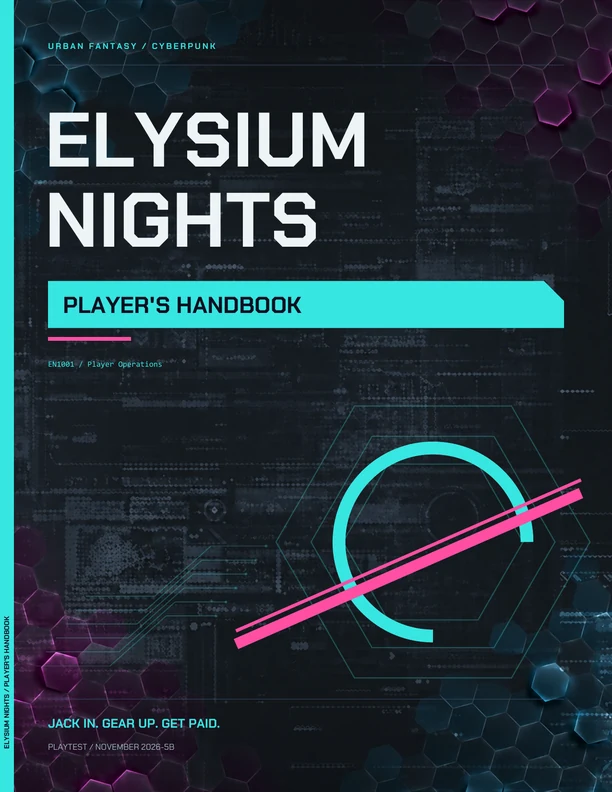
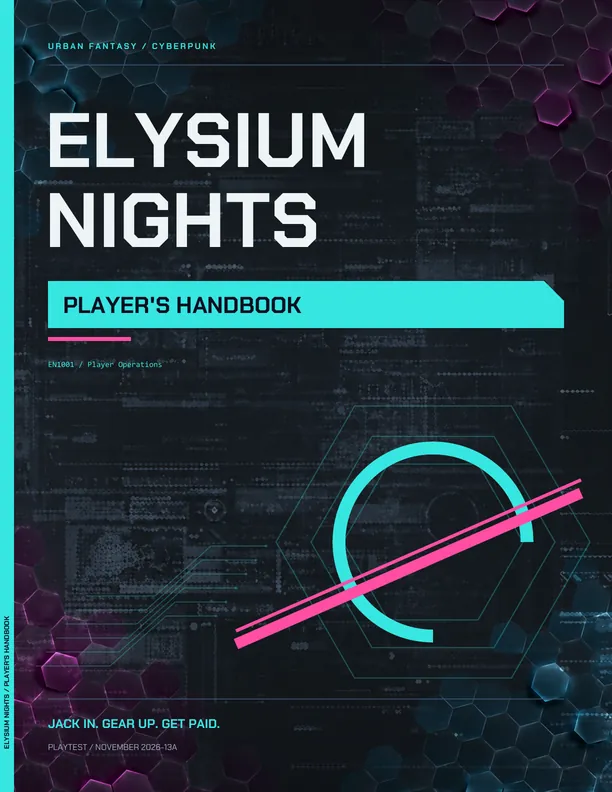
Add the Quick-Start Rules and bring the backup lines to 13A and 13B
EN1003 Quick-Start Rules gets a download card next to the Handbook and
Toolkit, linked to its Drive file. The books row goes three across,
download links line up at the bottom, and the Quick-Start shows under
both filters. Backup covers and typed lines now match the current
editions: Handbook 13A, Toolkit 13A, Quick-Start 13B.

Claude-Session: https://claude.ai/code/session_014RCJysVU5nFx92hELRMbx6

diff --git a/styles.css b/styles.css
@@ -1,5 +1,5 @@
 @font-face{font-family:Chakra;src:url('assets/ChakraPetch-Regular.ttf') format('truetype');font-weight:400;font-display:swap}@font-face{font-family:Chakra;src:url('assets/ChakraPetch-Bold.ttf') format('truetype');font-weight:700;font-display:swap}
-:root{--bg:#0b1115;--panel:#111b21;--text:#f0f2ee;--muted:#aab9bf;--cyan:#37e6e1;--pink:#ff4ea3;--lavender:#b49be9;--line:#29373e;--accent:var(--cyan)}*{box-sizing:border-box}html{scroll-behavior:smooth;scroll-padding-top:88px}body{margin:0;background:var(--bg);color:var(--text);font-family:Arial,Helvetica,sans-serif;font-size:16px;line-height:1.65}button,a{-webkit-tap-highlight-color:transparent}button{font:inherit}a{color:inherit;text-decoration:none}button,a,summary{touch-action:manipulation}a:focus-visible,button:focus-visible,summary:focus-visible,[tabindex]:focus-visible{outline:2px solid var(--cyan);outline-offset:6px}a,button{transition:color .2s,background .2s,border-color .2s,transform .2s}img{display:block;max-width:100%}h1,h2,h3,p{margin:0}h1,h2,h3,.brand,.button,.nav-cta{font-family:Chakra,Arial,sans-serif}h2{font-size:clamp(34px,4vw,56px);line-height:1.1;letter-spacing:-1.7px}h3{font-size:25px;line-height:1.2}em{font-style:normal;color:var(--cyan)}p{color:var(--muted)}.wrap{width:min(1240px,88%);margin-inline:auto}.section{padding-block:102px}.mono,.eyebrow,.section-label,.hero-foot,.book-meta,.footer>p,.footer>a:last-child,.table-kit,.download-filters,.class-number{font-family:Consolas,'Courier New',monospace;font-size:11px;letter-spacing:1.8px;line-height:1.5}.cyan{color:var(--cyan)}.pink{color:var(--pink)}.lavender{color:var(--lavender)}.skip{position:fixed;left:20px;top:-100px;background:var(--cyan);color:var(--bg);padding:12px;z-index:100}.skip:focus{top:12px}.header{height:86px;display:flex;align-items:center;justify-content:space-between;padding-inline:6%;border-bottom:1px solid #ffffff1a;background:#0b1115f5;position:sticky;top:0;z-index:20}.brand{display:flex;align-items:center;gap:12px;font-size:20px;letter-spacing:1.5px;white-space:nowrap;font-weight:700}.brand b{color:var(--cyan)}.header nav{display:flex;align-items:center;gap:30px;font-size:13px}.header nav>a:hover{color:var(--cyan)}.header .nav-cta{border:1px solid var(--cyan);padding:11px 18px;color:var(--cyan);font-size:14px}.nav-cta span{margin-left:20px}.menu-toggle{display:none}.hero{position:relative;width:100%;max-width:1440px;min-height:760px;margin-inline:auto;overflow:hidden;display:flex;align-items:center}.hero-image{position:absolute;inset:0;background:linear-gradient(90deg,#0b111570 0%,#0b111510 42%,#0b111500 62%),linear-gradient(0deg,#0b1115 0%,transparent 28%),url('assets/city-scape-animated.gif') center/cover no-repeat}.hero-content{position:relative;padding-top:36px;padding-bottom:76px}.hero-panel{width:min(590px,100%);padding:30px 32px 34px;background:rgba(5,10,16,.25);-webkit-backdrop-filter:blur(2px);backdrop-filter:blur(2px);border:1px solid rgba(136,187,199,.24);box-shadow:0 12px 40px #00000024}.hero-panel p{color:#d4dde1}.eyebrow{font-size:10px;letter-spacing:2px}.status-dot{display:inline-block;width:6px;height:6px;border-radius:50%;background:var(--cyan);margin-right:8px;box-shadow:0 0 12px #37e6e144}.hero h1{font-size:clamp(68px,8.2vw,116px);line-height:.88;letter-spacing:-4px;margin:34px 0 25px;font-weight:700}.hero h1>span:first-child{color:var(--cyan)}.hero .title-dot{color:var(--pink)}.hero h2{font-size:30px;letter-spacing:-.6px;line-height:1.2}.hero p{font-size:15px;color:#c1cbd0;margin-top:20px}.actions{display:flex;align-items:center;gap:30px;margin-top:30px;flex-wrap:wrap}.button{display:inline-flex;align-items:center;justify-content:space-between;gap:38px;padding:15px 24px;font-size:15px;font-weight:700;min-height:54px}.primary{background:var(--cyan);color:#081516;clip-path:polygon(0 0,100% 0,100% calc(100% - 10px),calc(100% - 10px) 100%,0 100%)}.primary:hover{background:#a0ffef;transform:translateY(-2px)}.secondary{border:1px solid #627077;color:var(--text)}.secondary:hover{border-color:var(--cyan);color:var(--cyan)}.text-link{font-size:13px;border-bottom:1px solid #6b7a80;padding-bottom:5px;display:inline-flex;gap:24px;align-items:center}.text-link:hover{color:var(--cyan);border-color:var(--cyan)}.hero-foot{position:absolute;bottom:22px;left:50%;transform:translateX(-50%);display:flex;justify-content:space-between;gap:20px;color:#a1b3bb;font-size:9px;letter-spacing:1.4px}.hero-foot span:nth-child(2){color:var(--cyan)}.ticker{display:flex;justify-content:center;gap:45px;align-items:center;border-block:1px solid var(--line);background:#101b20;padding:18px 20px;font-family:Chakra,Arial,sans-serif;font-weight:700;font-size:12px;letter-spacing:1.7px;color:#bac9cf}.ticker i{font-style:normal;color:var(--pink);font-size:20px;line-height:1}.section-label{display:flex;justify-content:space-between;color:#81979f;font-size:10px;border-bottom:1px solid var(--line);padding-bottom:19px;margin-bottom:44px}.section-label>span:first-child{color:var(--cyan)}.intro-grid{display:grid;grid-template-columns:1.1fr 1fr;gap:100px}.lead{font-size:20px;line-height:1.6;color:#e0e7e9}.intro-copy p+p{margin-top:19px;font-size:15px}.world-grid{display:grid;grid-template-columns:repeat(3,1fr);margin-top:58px;border:1px solid var(--line)}.world-grid article{position:relative;padding:30px 30px 34px;overflow:hidden;min-height:265px}.world-grid article+article{border-left:1px solid var(--line)}.world-grid h3{font-size:23px;margin:20px 0 15px}.world-grid p{font-size:14px;position:relative;z-index:1;max-width:330px}.world-word{position:absolute;right:10px;bottom:-55px;font-family:Chakra,sans-serif;font-size:180px;color:#9bd3e706;line-height:1}.freelancer-section{background:#0e181e;border-block:1px solid var(--line)}.section-heading{display:flex;justify-content:space-between;gap:40px;align-items:flex-end;margin-bottom:40px}.section-heading>p{font-size:14px;max-width:400px}.class-explorer{display:grid;grid-template-columns:290px 1fr;border:1px solid var(--line);background:#0b1318}.class-list{border-right:1px solid var(--line)}.class-tab{display:flex;align-items:center;width:100%;gap:20px;min-height:66px;padding:12px 22px;background:transparent;color:#b4c3c9;border:0;border-bottom:1px solid var(--line);text-align:left;cursor:pointer;font-family:Chakra,sans-serif;font-size:18px}.class-tab:last-child{border-bottom:0}.class-tab img{width:32px;height:32px}.class-tab span:last-child{margin-left:auto;font-size:16px;opacity:.45}.class-tab:hover{background:#16272c;color:#fff}.class-tab[aria-selected=true]{background:#37e6e10d;color:var(--cyan);box-shadow:inset 3px 0 var(--cyan)}.class-panel{padding:40px 45px;position:relative;display:flex;flex-direction:column;justify-content:center;min-height:465px;overflow:hidden}.class-panel .class-art{position:absolute;width:260px;height:260px;right:28px;top:50%;transform:translateY(-50%);opacity:.11;pointer-events:none}.class-panel .class-number{color:#748c96;margin-bottom:15px}.class-panel h3{font-size:49px;letter-spacing:-1px;color:var(--accent);position:relative}.class-tagline{font-family:Chakra,sans-serif;color:var(--text);font-size:22px;margin:8px 0 18px;position:relative}.class-description{max-width:550px;font-size:15px;position:relative}.class-stats{display:flex;gap:44px;margin:27px 0;position:relative}.class-stats dt{font-family:Consolas,monospace;font-size:9px;letter-spacing:1.5px;color:#81979f}.class-stats dd{margin:4px 0 0;font-family:Chakra,sans-serif;font-size:17px}.class-panel .text-link{align-self:flex-start;color:var(--accent);position:relative}.species{display:flex;justify-content:space-between;align-items:center;gap:20px;padding-top:35px}.species>span:first-child{color:var(--cyan);font-size:9px}.species p{font-family:Chakra,sans-serif;color:#d8e2e5;font-size:15px}.species b{color:var(--pink);padding-inline:9px}.species>span:last-child{font-size:11px;color:#81979f}.game-grid{display:grid;grid-template-columns:1fr 1fr;gap:100px}.game-grid .lead{font-size:17px;margin:25px 0}.game-steps article{display:flex;gap:24px;padding:25px 0;border-top:1px solid var(--line)}.game-steps article:first-child{padding-top:0;border:0}.game-steps article>span{font-family:Consolas,monospace;color:var(--pink);font-size:13px}.game-steps h3{font-size:23px;margin-bottom:10px}.game-steps p{font-size:14px}.table-kit{margin-top:48px;padding:24px 0;border-block:1px solid var(--line);display:flex;gap:25px;justify-content:space-between;letter-spacing:0;font-size:11px;color:#b6c5cc}.table-kit>span:first-child{letter-spacing:1px}.downloads-section{background:#101b21;border-block:1px solid var(--line)}.section-heading .eyebrow{display:block;margin-bottom:16px}.small{display:block;font-size:11px;color:#8ca0a9;margin-top:10px}.download-filters{display:flex;gap:8px;margin-bottom:30px;letter-spacing:0}.download-filters button{background:transparent;border:1px solid #43545d;color:#bccbd2;padding:9px 17px;cursor:pointer;font-family:inherit;font-size:11px}.download-filters button[aria-pressed=true]{background:var(--cyan);border-color:var(--cyan);color:#081516}.books{display:grid;grid-template-columns:repeat(2,minmax(0,1fr));gap:38px;max-width:940px;margin-inline:auto}.book[hidden]{display:none}.cover{display:block;position:relative;background:#11171d;overflow:hidden;border:1px solid #3b4854}.cover img{width:100%;height:auto;transition:transform .35s}.cover:hover img{transform:scale(1.025)}.cover>span{position:absolute;bottom:0;right:0;padding:10px 15px;background:var(--cyan);color:#0b1115;font-family:Consolas,monospace;letter-spacing:1px;font-size:10px}.book:nth-child(2) .cover>span{background:var(--lavender)}.book-meta{display:flex;justify-content:space-between;font-size:9px;color:#8ca0a9;margin:22px 0 12px;letter-spacing:1px}.book h3{font-size:25px}.book p{font-size:14px;margin:14px 0 22px;min-height:70px}.download-link{display:flex;align-items:center;justify-content:space-between;color:var(--cyan);font-family:Chakra,sans-serif;font-weight:700;border-block:1px solid #354a54;padding:14px 0}.download-link:hover{color:white;border-color:var(--cyan)}.book small{display:block;color:#8fa3ad;margin-top:12px;font-size:10px}.faq-section{display:grid;grid-template-columns:.9fr 1.3fr;gap:80px}.faq-section .section-label{border:0;margin-bottom:20px;padding:0;color:var(--cyan)}.faqs details{border-top:1px solid var(--line);padding:22px 0}.faqs details:last-child{border-bottom:1px solid var(--line)}.faqs summary{list-style:none;display:flex;justify-content:space-between;gap:20px;font-family:Chakra,sans-serif;font-size:19px;cursor:pointer}.faqs summary::-webkit-details-marker{display:none}.faqs summary span{color:var(--cyan)}.faqs details[open] summary span{transform:rotate(45deg)}.faqs p{font-size:14px;margin-top:17px}.community{position:relative;border-block:1px solid var(--line);background:radial-gradient(ellipse at 50% 100%,#173c40 0%,#0e1a20 65%);overflow:hidden;text-align:center}.community-inner{padding-block:70px 80px;position:relative}.community img{margin:0 auto 24px}.community .eyebrow{color:var(--cyan)}.community h2{margin-top:20px;font-size:60px}.community p{margin:23px 0}.community .actions{justify-content:center}.footer{display:flex;justify-content:space-between;align-items:center;gap:25px;padding-block:32px}.footer .brand{font-size:15px}.footer>p,.footer>a:last-child{font-size:9px;letter-spacing:1px;color:#81979f}.footer>a:last-child:hover{color:var(--cyan)}
+:root{--bg:#0b1115;--panel:#111b21;--text:#f0f2ee;--muted:#aab9bf;--cyan:#37e6e1;--pink:#ff4ea3;--lavender:#b49be9;--line:#29373e;--accent:var(--cyan)}*{box-sizing:border-box}html{scroll-behavior:smooth;scroll-padding-top:88px}body{margin:0;background:var(--bg);color:var(--text);font-family:Arial,Helvetica,sans-serif;font-size:16px;line-height:1.65}button,a{-webkit-tap-highlight-color:transparent}button{font:inherit}a{color:inherit;text-decoration:none}button,a,summary{touch-action:manipulation}a:focus-visible,button:focus-visible,summary:focus-visible,[tabindex]:focus-visible{outline:2px solid var(--cyan);outline-offset:6px}a,button{transition:color .2s,background .2s,border-color .2s,transform .2s}img{display:block;max-width:100%}h1,h2,h3,p{margin:0}h1,h2,h3,.brand,.button,.nav-cta{font-family:Chakra,Arial,sans-serif}h2{font-size:clamp(34px,4vw,56px);line-height:1.1;letter-spacing:-1.7px}h3{font-size:25px;line-height:1.2}em{font-style:normal;color:var(--cyan)}p{color:var(--muted)}.wrap{width:min(1240px,88%);margin-inline:auto}.section{padding-block:102px}.mono,.eyebrow,.section-label,.hero-foot,.book-meta,.footer>p,.footer>a:last-child,.table-kit,.download-filters,.class-number{font-family:Consolas,'Courier New',monospace;font-size:11px;letter-spacing:1.8px;line-height:1.5}.cyan{color:var(--cyan)}.pink{color:var(--pink)}.lavender{color:var(--lavender)}.skip{position:fixed;left:20px;top:-100px;background:var(--cyan);color:var(--bg);padding:12px;z-index:100}.skip:focus{top:12px}.header{height:86px;display:flex;align-items:center;justify-content:space-between;padding-inline:6%;border-bottom:1px solid #ffffff1a;background:#0b1115f5;position:sticky;top:0;z-index:20}.brand{display:flex;align-items:center;gap:12px;font-size:20px;letter-spacing:1.5px;white-space:nowrap;font-weight:700}.brand b{color:var(--cyan)}.header nav{display:flex;align-items:center;gap:30px;font-size:13px}.header nav>a:hover{color:var(--cyan)}.header .nav-cta{border:1px solid var(--cyan);padding:11px 18px;color:var(--cyan);font-size:14px}.nav-cta span{margin-left:20px}.menu-toggle{display:none}.hero{position:relative;width:100%;max-width:1440px;min-height:760px;margin-inline:auto;overflow:hidden;display:flex;align-items:center}.hero-image{position:absolute;inset:0;background:linear-gradient(90deg,#0b111570 0%,#0b111510 42%,#0b111500 62%),linear-gradient(0deg,#0b1115 0%,transparent 28%),url('assets/city-scape-animated.gif') center/cover no-repeat}.hero-content{position:relative;padding-top:36px;padding-bottom:76px}.hero-panel{width:min(590px,100%);padding:30px 32px 34px;background:rgba(5,10,16,.25);-webkit-backdrop-filter:blur(2px);backdrop-filter:blur(2px);border:1px solid rgba(136,187,199,.24);box-shadow:0 12px 40px #00000024}.hero-panel p{color:#d4dde1}.eyebrow{font-size:10px;letter-spacing:2px}.status-dot{display:inline-block;width:6px;height:6px;border-radius:50%;background:var(--cyan);margin-right:8px;box-shadow:0 0 12px #37e6e144}.hero h1{font-size:clamp(68px,8.2vw,116px);line-height:.88;letter-spacing:-4px;margin:34px 0 25px;font-weight:700}.hero h1>span:first-child{color:var(--cyan)}.hero .title-dot{color:var(--pink)}.hero h2{font-size:30px;letter-spacing:-.6px;line-height:1.2}.hero p{font-size:15px;color:#c1cbd0;margin-top:20px}.actions{display:flex;align-items:center;gap:30px;margin-top:30px;flex-wrap:wrap}.button{display:inline-flex;align-items:center;justify-content:space-between;gap:38px;padding:15px 24px;font-size:15px;font-weight:700;min-height:54px}.primary{background:var(--cyan);color:#081516;clip-path:polygon(0 0,100% 0,100% calc(100% - 10px),calc(100% - 10px) 100%,0 100%)}.primary:hover{background:#a0ffef;transform:translateY(-2px)}.secondary{border:1px solid #627077;color:var(--text)}.secondary:hover{border-color:var(--cyan);color:var(--cyan)}.text-link{font-size:13px;border-bottom:1px solid #6b7a80;padding-bottom:5px;display:inline-flex;gap:24px;align-items:center}.text-link:hover{color:var(--cyan);border-color:var(--cyan)}.hero-foot{position:absolute;bottom:22px;left:50%;transform:translateX(-50%);display:flex;justify-content:space-between;gap:20px;color:#a1b3bb;font-size:9px;letter-spacing:1.4px}.hero-foot span:nth-child(2){color:var(--cyan)}.ticker{display:flex;justify-content:center;gap:45px;align-items:center;border-block:1px solid var(--line);background:#101b20;padding:18px 20px;font-family:Chakra,Arial,sans-serif;font-weight:700;font-size:12px;letter-spacing:1.7px;color:#bac9cf}.ticker i{font-style:normal;color:var(--pink);font-size:20px;line-height:1}.section-label{display:flex;justify-content:space-between;color:#81979f;font-size:10px;border-bottom:1px solid var(--line);padding-bottom:19px;margin-bottom:44px}.section-label>span:first-child{color:var(--cyan)}.intro-grid{display:grid;grid-template-columns:1.1fr 1fr;gap:100px}.lead{font-size:20px;line-height:1.6;color:#e0e7e9}.intro-copy p+p{margin-top:19px;font-size:15px}.world-grid{display:grid;grid-template-columns:repeat(3,1fr);margin-top:58px;border:1px solid var(--line)}.world-grid article{position:relative;padding:30px 30px 34px;overflow:hidden;min-height:265px}.world-grid article+article{border-left:1px solid var(--line)}.world-grid h3{font-size:23px;margin:20px 0 15px}.world-grid p{font-size:14px;position:relative;z-index:1;max-width:330px}.world-word{position:absolute;right:10px;bottom:-55px;font-family:Chakra,sans-serif;font-size:180px;color:#9bd3e706;line-height:1}.freelancer-section{background:#0e181e;border-block:1px solid var(--line)}.section-heading{display:flex;justify-content:space-between;gap:40px;align-items:flex-end;margin-bottom:40px}.section-heading>p{font-size:14px;max-width:400px}.class-explorer{display:grid;grid-template-columns:290px 1fr;border:1px solid var(--line);background:#0b1318}.class-list{border-right:1px solid var(--line)}.class-tab{display:flex;align-items:center;width:100%;gap:20px;min-height:66px;padding:12px 22px;background:transparent;color:#b4c3c9;border:0;border-bottom:1px solid var(--line);text-align:left;cursor:pointer;font-family:Chakra,sans-serif;font-size:18px}.class-tab:last-child{border-bottom:0}.class-tab img{width:32px;height:32px}.class-tab span:last-child{margin-left:auto;font-size:16px;opacity:.45}.class-tab:hover{background:#16272c;color:#fff}.class-tab[aria-selected=true]{background:#37e6e10d;color:var(--cyan);box-shadow:inset 3px 0 var(--cyan)}.class-panel{padding:40px 45px;position:relative;display:flex;flex-direction:column;justify-content:center;min-height:465px;overflow:hidden}.class-panel .class-art{position:absolute;width:260px;height:260px;right:28px;top:50%;transform:translateY(-50%);opacity:.11;pointer-events:none}.class-panel .class-number{color:#748c96;margin-bottom:15px}.class-panel h3{font-size:49px;letter-spacing:-1px;color:var(--accent);position:relative}.class-tagline{font-family:Chakra,sans-serif;color:var(--text);font-size:22px;margin:8px 0 18px;position:relative}.class-description{max-width:550px;font-size:15px;position:relative}.class-stats{display:flex;gap:44px;margin:27px 0;position:relative}.class-stats dt{font-family:Consolas,monospace;font-size:9px;letter-spacing:1.5px;color:#81979f}.class-stats dd{margin:4px 0 0;font-family:Chakra,sans-serif;font-size:17px}.class-panel .text-link{align-self:flex-start;color:var(--accent);position:relative}.species{display:flex;justify-content:space-between;align-items:center;gap:20px;padding-top:35px}.species>span:first-child{color:var(--cyan);font-size:9px}.species p{font-family:Chakra,sans-serif;color:#d8e2e5;font-size:15px}.species b{color:var(--pink);padding-inline:9px}.species>span:last-child{font-size:11px;color:#81979f}.game-grid{display:grid;grid-template-columns:1fr 1fr;gap:100px}.game-grid .lead{font-size:17px;margin:25px 0}.game-steps article{display:flex;gap:24px;padding:25px 0;border-top:1px solid var(--line)}.game-steps article:first-child{padding-top:0;border:0}.game-steps article>span{font-family:Consolas,monospace;color:var(--pink);font-size:13px}.game-steps h3{font-size:23px;margin-bottom:10px}.game-steps p{font-size:14px}.table-kit{margin-top:48px;padding:24px 0;border-block:1px solid var(--line);display:flex;gap:25px;justify-content:space-between;letter-spacing:0;font-size:11px;color:#b6c5cc}.table-kit>span:first-child{letter-spacing:1px}.downloads-section{background:#101b21;border-block:1px solid var(--line)}.section-heading .eyebrow{display:block;margin-bottom:16px}.small{display:block;font-size:11px;color:#8ca0a9;margin-top:10px}.download-filters{display:flex;gap:8px;margin-bottom:30px;letter-spacing:0}.download-filters button{background:transparent;border:1px solid #43545d;color:#bccbd2;padding:9px 17px;cursor:pointer;font-family:inherit;font-size:11px}.download-filters button[aria-pressed=true]{background:var(--cyan);border-color:var(--cyan);color:#081516}.books{display:grid;grid-template-columns:repeat(3,minmax(0,1fr));gap:38px}.book{display:flex;flex-direction:column}.book[hidden]{display:none}.cover{display:block;position:relative;background:#11171d;overflow:hidden;border:1px solid #3b4854}.cover img{width:100%;height:auto;transition:transform .35s}.cover:hover img{transform:scale(1.025)}.cover>span{position:absolute;bottom:0;right:0;padding:10px 15px;background:var(--cyan);color:#0b1115;font-family:Consolas,monospace;letter-spacing:1px;font-size:10px}.book:nth-child(2) .cover>span{background:var(--lavender)}.book:nth-child(3) .cover>span{background:var(--pink)}.book-meta{display:flex;justify-content:space-between;font-size:9px;color:#8ca0a9;margin:22px 0 12px;letter-spacing:1px}.book h3{font-size:25px}.book p{font-size:14px;margin:14px 0 22px;min-height:70px;flex-grow:1}.download-link{display:flex;align-items:center;justify-content:space-between;color:var(--cyan);font-family:Chakra,sans-serif;font-weight:700;border-block:1px solid #354a54;padding:14px 0}.download-link:hover{color:white;border-color:var(--cyan)}.book small{display:block;color:#8fa3ad;margin-top:12px;font-size:10px}.faq-section{display:grid;grid-template-columns:.9fr 1.3fr;gap:80px}.faq-section .section-label{border:0;margin-bottom:20px;padding:0;color:var(--cyan)}.faqs details{border-top:1px solid var(--line);padding:22px 0}.faqs details:last-child{border-bottom:1px solid var(--line)}.faqs summary{list-style:none;display:flex;justify-content:space-between;gap:20px;font-family:Chakra,sans-serif;font-size:19px;cursor:pointer}.faqs summary::-webkit-details-marker{display:none}.faqs summary span{color:var(--cyan)}.faqs details[open] summary span{transform:rotate(45deg)}.faqs p{font-size:14px;margin-top:17px}.community{position:relative;border-block:1px solid var(--line);background:radial-gradient(ellipse at 50% 100%,#173c40 0%,#0e1a20 65%);overflow:hidden;text-align:center}.community-inner{padding-block:70px 80px;position:relative}.community img{margin:0 auto 24px}.community .eyebrow{color:var(--cyan)}.community h2{margin-top:20px;font-size:60px}.community p{margin:23px 0}.community .actions{justify-content:center}.footer{display:flex;justify-content:space-between;align-items:center;gap:25px;padding-block:32px}.footer .brand{font-size:15px}.footer>p,.footer>a:last-child{font-size:9px;letter-spacing:1px;color:#81979f}.footer>a:last-child:hover{color:var(--cyan)}
 .explorer-switch{display:flex;flex-wrap:wrap;gap:8px;margin-bottom:18px}.explorer-switch button{display:inline-flex;align-items:center;gap:12px;min-height:44px;background:transparent;border:1px solid #43545d;color:#bccbd2;padding:9px 18px;cursor:pointer;font-family:Consolas,'Courier New',monospace;font-size:11px;letter-spacing:1.5px;text-transform:uppercase}.explorer-switch button:hover{border-color:var(--cyan);color:#fff}.explorer-switch button[aria-selected=true]{background:var(--cyan);border-color:var(--cyan);color:#081516}.explorer-switch button[data-view=species][aria-selected=true]{background:var(--lavender);border-color:var(--lavender)}.explorer-viewport{overflow:hidden;overflow:clip}.explorer-track{display:flex;width:200%;transition:transform .55s cubic-bezier(.65,0,.35,1)}.explorer-track>.class-explorer{flex:0 0 50%;min-width:0;transition:opacity .55s}.explorer-track[data-view=species]{transform:translateX(-50%)}.explorer-track>[inert]{opacity:.35}.species-panel{--accent:var(--lavender)}.tab-icon{display:flex;flex:0 0 auto}.species-list .tab-icon{position:relative;width:44px;height:44px;overflow:hidden}.species-list .class-tab img{position:absolute;left:50%;top:50%;width:96px;height:64px;max-width:none;transform:translate(-50%,-50%)}.species-list .class-tab[aria-selected=true]{background:#b49be90f;color:var(--lavender);box-shadow:inset 3px 0 var(--lavender)}.species-panel .class-art{width:420px;height:280px;right:10px;opacity:.2}.species p button{background:none;border:0;border-bottom:1px solid transparent;padding:10px 0 2px;color:inherit;font:inherit;cursor:pointer}.species p button:hover,.species p button:focus-visible{color:var(--lavender);border-color:var(--lavender)}.species[data-showing=classes] p button:hover,.species[data-showing=classes] p button:focus-visible{color:var(--cyan);border-color:var(--cyan)}.species>span:first-child,.species p{transition:opacity .18s,transform .18s}.species.swapping>span:first-child,.species.swapping p{opacity:0;transform:translateY(4px)}
 @media(max-width:1100px){.header nav{gap:18px}.brand{font-size:16px}.intro-grid,.game-grid{gap:55px}.class-explorer{grid-template-columns:240px 1fr}.class-panel{padding:32px}.species{flex-wrap:wrap}.species>span:last-child{display:none}.ticker{gap:24px;font-size:10px}.books{gap:25px}.book h3{font-size:21px}.table-kit{flex-wrap:wrap;justify-content:flex-start}.hero{min-height:740px}}
 @media(max-width:1020px){.menu-toggle{display:flex;align-items:center;gap:18px;min-height:44px;background:transparent;border:1px solid #3b505a;padding:7px 12px;color:var(--cyan);font-family:Chakra,sans-serif;font-size:13px}.header nav{display:none;position:absolute;top:86px;left:0;right:0;padding:22px 6%;background:#0b1115;flex-direction:column;align-items:stretch;border-bottom:1px solid var(--line);gap:0}.header nav.open{display:flex}.header nav>a{padding:14px 0}.header nav>.nav-cta{padding:14px;margin-top:10px}}

diff --git a/index.html b/index.html
@@ -12,7 +12,7 @@
   <script>if(/[?&]portal=/.test(location.search))location.replace('app/'+location.search+location.hash);</script>
   <link rel="icon" href="assets/elysium-icon-broken-halo.svg" type="image/svg+xml">
   <link rel="preload" href="assets/ChakraPetch-Bold.ttf" as="font" type="font/ttf" crossorigin>
-  <link rel="stylesheet" href="styles.css?v=20261105f"><script src="app.js?v=20261105f" defer></script>
+  <link rel="stylesheet" href="styles.css?v=20261113a"><script src="app.js?v=20261113a" defer></script>
 </head>
 <body>
 <a class="skip" href="#main">Skip to content</a>
@@ -77,8 +77,9 @@
   <div class="section-heading"><div><span class="eyebrow cyan">YOUR NEXT SESSION STARTS HERE</span><h2>The city is ready.<br><em>Pull up a chair.</em></h2></div><p>Download the books, take them to your table,<br>and tell us what held up under pressure.<br><span class="small">Playtest drafts. Rules and page numbers may change.</span></p></div>
   <div class="download-filters" role="group" aria-label="Filter playtest books"><button aria-pressed="true" data-filter="all">All books</button><button aria-pressed="false" data-filter="player">For players</button><button aria-pressed="false" data-filter="admin">For Admins</button></div>
   <div class="books" aria-live="polite">
-   <article class="book" data-audience="player" data-drive-id="1WEcqaKJwGbDxiKOOQobW4b7CWUzFVkXg"><a class="cover" href="https://drive.google.com/file/d/1WEcqaKJwGbDxiKOOQobW4b7CWUzFVkXg/view?usp=sharing" target="_blank" rel="noopener" aria-label="Open Player's Handbook PDF"><img src="assets/players-handbook.webp" alt="Elysium Nights Player's Handbook cover" width="612" height="792" loading="lazy"><span>START HERE ↗</span></a><div class="book-meta"><span>EN1001</span><span>150 PAGES / PDF</span></div><h3>Player's Handbook</h3><p>Build your Freelancer. Learn the core rules, the Flow, the #GRID, and life between jobs. Includes a character sheet.</p><a class="download-link" href="https://drive.google.com/uc?export=download&amp;id=1WEcqaKJwGbDxiKOOQobW4b7CWUzFVkXg">Download handbook <span aria-hidden="true">↓</span></a><small data-book-line>November 5, 2026 · 5B · 9.9 MB</small></article>
-   <article class="book" data-audience="admin" data-drive-id="15bD1eus9v84poy0Y7N4RXRUj8v3COMwo"><a class="cover" href="https://drive.google.com/file/d/15bD1eus9v84poy0Y7N4RXRUj8v3COMwo/view?usp=sharing" target="_blank" rel="noopener" aria-label="Open Game Master's Toolkit PDF, contains GM material"><img src="assets/gm-toolkit.webp" alt="Elysium Nights Game Master's Toolkit cover" width="612" height="792" loading="lazy"><span>FOR THE ADMIN ↗</span></a><div class="book-meta"><span>EN1002</span><span>72 PAGES / PDF</span></div><h3>Game Master's Toolkit</h3><p>Run the city with job tables, threats, encounter guidance, district details, and prep tools. Contains GM material.</p><a class="download-link" href="https://drive.google.com/uc?export=download&amp;id=15bD1eus9v84poy0Y7N4RXRUj8v3COMwo">Download toolkit <span aria-hidden="true">↓</span></a><small data-book-line>November 5, 2026 · 4A · 8.3 MB</small></article>
+   <article class="book" data-audience="player" data-drive-id="1WEcqaKJwGbDxiKOOQobW4b7CWUzFVkXg"><a class="cover" href="https://drive.google.com/file/d/1WEcqaKJwGbDxiKOOQobW4b7CWUzFVkXg/view?usp=sharing" target="_blank" rel="noopener" aria-label="Open Player's Handbook PDF"><img src="assets/players-handbook.webp" alt="Elysium Nights Player's Handbook cover" width="612" height="792" loading="lazy"><span>START HERE ↗</span></a><div class="book-meta"><span>EN1001</span><span>150 PAGES / PDF</span></div><h3>Player's Handbook</h3><p>Build your Freelancer. Learn the core rules, the Flow, the #GRID, and life between jobs. Includes a character sheet.</p><a class="download-link" href="https://drive.google.com/uc?export=download&amp;id=1WEcqaKJwGbDxiKOOQobW4b7CWUzFVkXg">Download handbook <span aria-hidden="true">↓</span></a><small data-book-line>November 13, 2026 · 13A · 9.8 MB</small></article>
+   <article class="book" data-audience="admin" data-drive-id="15bD1eus9v84poy0Y7N4RXRUj8v3COMwo"><a class="cover" href="https://drive.google.com/file/d/15bD1eus9v84poy0Y7N4RXRUj8v3COMwo/view?usp=sharing" target="_blank" rel="noopener" aria-label="Open Game Master's Toolkit PDF, contains GM material"><img src="assets/gm-toolkit.webp" alt="Elysium Nights Game Master's Toolkit cover" width="612" height="792" loading="lazy"><span>FOR THE ADMIN ↗</span></a><div class="book-meta"><span>EN1002</span><span>72 PAGES / PDF</span></div><h3>Game Master's Toolkit</h3><p>Run the city with job tables, threats, encounter guidance, district details, and prep tools. Contains GM material.</p><a class="download-link" href="https://drive.google.com/uc?export=download&amp;id=15bD1eus9v84poy0Y7N4RXRUj8v3COMwo">Download toolkit <span aria-hidden="true">↓</span></a><small data-book-line>November 13, 2026 · 13A · 8.3 MB</small></article>
+   <article class="book" data-audience="player admin" data-drive-id="1DhPA6a_hmHvtRKBWhNzoESkb7RKO85FT"><a class="cover" href="https://drive.google.com/file/d/1DhPA6a_hmHvtRKBWhNzoESkb7RKO85FT/view?usp=sharing" target="_blank" rel="noopener" aria-label="Open Quick-Start Rules PDF, contains GM material"><img src="assets/quick-start-rules.webp" alt="Elysium Nights Quick-Start Rules cover" width="612" height="792" loading="lazy"><span>FIRST NIGHT ↗</span></a><div class="book-meta"><span>EN1003</span><span>50 PAGES / PDF</span></div><h3>Quick-Start Rules</h3><p>This booklet gets a table from zero to its first finished job in one evening: the rules, five Freelancers ready to play, and one night's work in Sumpside.</p><a class="download-link" href="https://drive.google.com/uc?export=download&amp;id=1DhPA6a_hmHvtRKBWhNzoESkb7RKO85FT">Download quick-start <span aria-hidden="true">↓</span></a><small data-book-line>November 13, 2026 · 13B · 8.3 MB</small></article>
   </div>
  </div></section>
  <section class="section wrap faq-section"><div><span class="section-label">BEFORE YOUR FIRST JOB</span><h2>A few things<br>to <em>know.</em></h2></div><div class="faqs">

diff --git a/app.js b/app.js
@@ -31,7 +31,7 @@ viewTabs.forEach((tab,index)=>{tab.addEventListener('click',()=>showView(tab.dat
 const strip=document.querySelector('.species');const stripLabel=strip.querySelector('[data-strip-label]');const stripList=strip.querySelector('[data-strip-list]');let stripTimer;let stripTarget='species';
 function renderStrip(view){const showing=view==='species'?'classes':'species';if(stripTarget===showing)return;stripTarget=showing;const set=showing==='classes'?classes:species;clearTimeout(stripTimer);strip.classList.add('swapping');stripTimer=setTimeout(()=>{strip.dataset.showing=showing;stripLabel.textContent=showing==='classes'?'SEVEN PLAYABLE CLASSES':'FIVE PLAYABLE SPECIES';stripList.innerHTML=set.map((entry,index)=>`<button type="button" data-${showing==='classes'?'class':'species'}="${index}">${entry.name}</button>`).join(' <b>·</b> ');strip.classList.remove('swapping');},180);}
 stripList.addEventListener('click',event=>{const button=event.target.closest('button');if(!button)return;const isClass=button.dataset.class!==undefined;const index=Number(isClass?button.dataset.class:button.dataset.species);(isClass?classExplorer:speciesExplorer).select(index);showView(isClass?'classes':'species');document.querySelector('.explorer-switch').scrollIntoView({behavior:matchMedia('(prefers-reduced-motion:reduce)').matches?'auto':'smooth',block:'start'});});
-document.querySelectorAll('[data-filter]').forEach(button=>button.addEventListener('click',()=>{document.querySelectorAll('[data-filter]').forEach(item=>item.setAttribute('aria-pressed',String(item===button)));document.querySelectorAll('.book').forEach(book=>{book.hidden=button.dataset.filter!=='all'&&book.dataset.audience!==button.dataset.filter;});}));
+document.querySelectorAll('[data-filter]').forEach(button=>button.addEventListener('click',()=>{document.querySelectorAll('[data-filter]').forEach(item=>item.setAttribute('aria-pressed',String(item===button)));document.querySelectorAll('.book').forEach(book=>{book.hidden=button.dataset.filter!=='all'&&!book.dataset.audience.split(' ').includes(button.dataset.filter);});}));
 const menu=document.querySelector('.menu-toggle');const navigation=document.querySelector('#navigation');function closeMenu(){menu.setAttribute('aria-expanded','false');navigation.classList.remove('open');}menu.addEventListener('click',()=>{const open=menu.getAttribute('aria-expanded')!=='true';menu.setAttribute('aria-expanded',String(open));navigation.classList.toggle('open',open);});navigation.querySelectorAll('a').forEach(link=>link.addEventListener('click',closeMenu));document.addEventListener('keydown',event=>{if(event.key==='Escape'&&navigation.classList.contains('open')){closeMenu();menu.focus();}});
 // Covers: Drive's preview of each PDF's first page. The local cover stays if the preview fails to load.
 const books=[...document.querySelectorAll('.book[data-drive-id]')];
